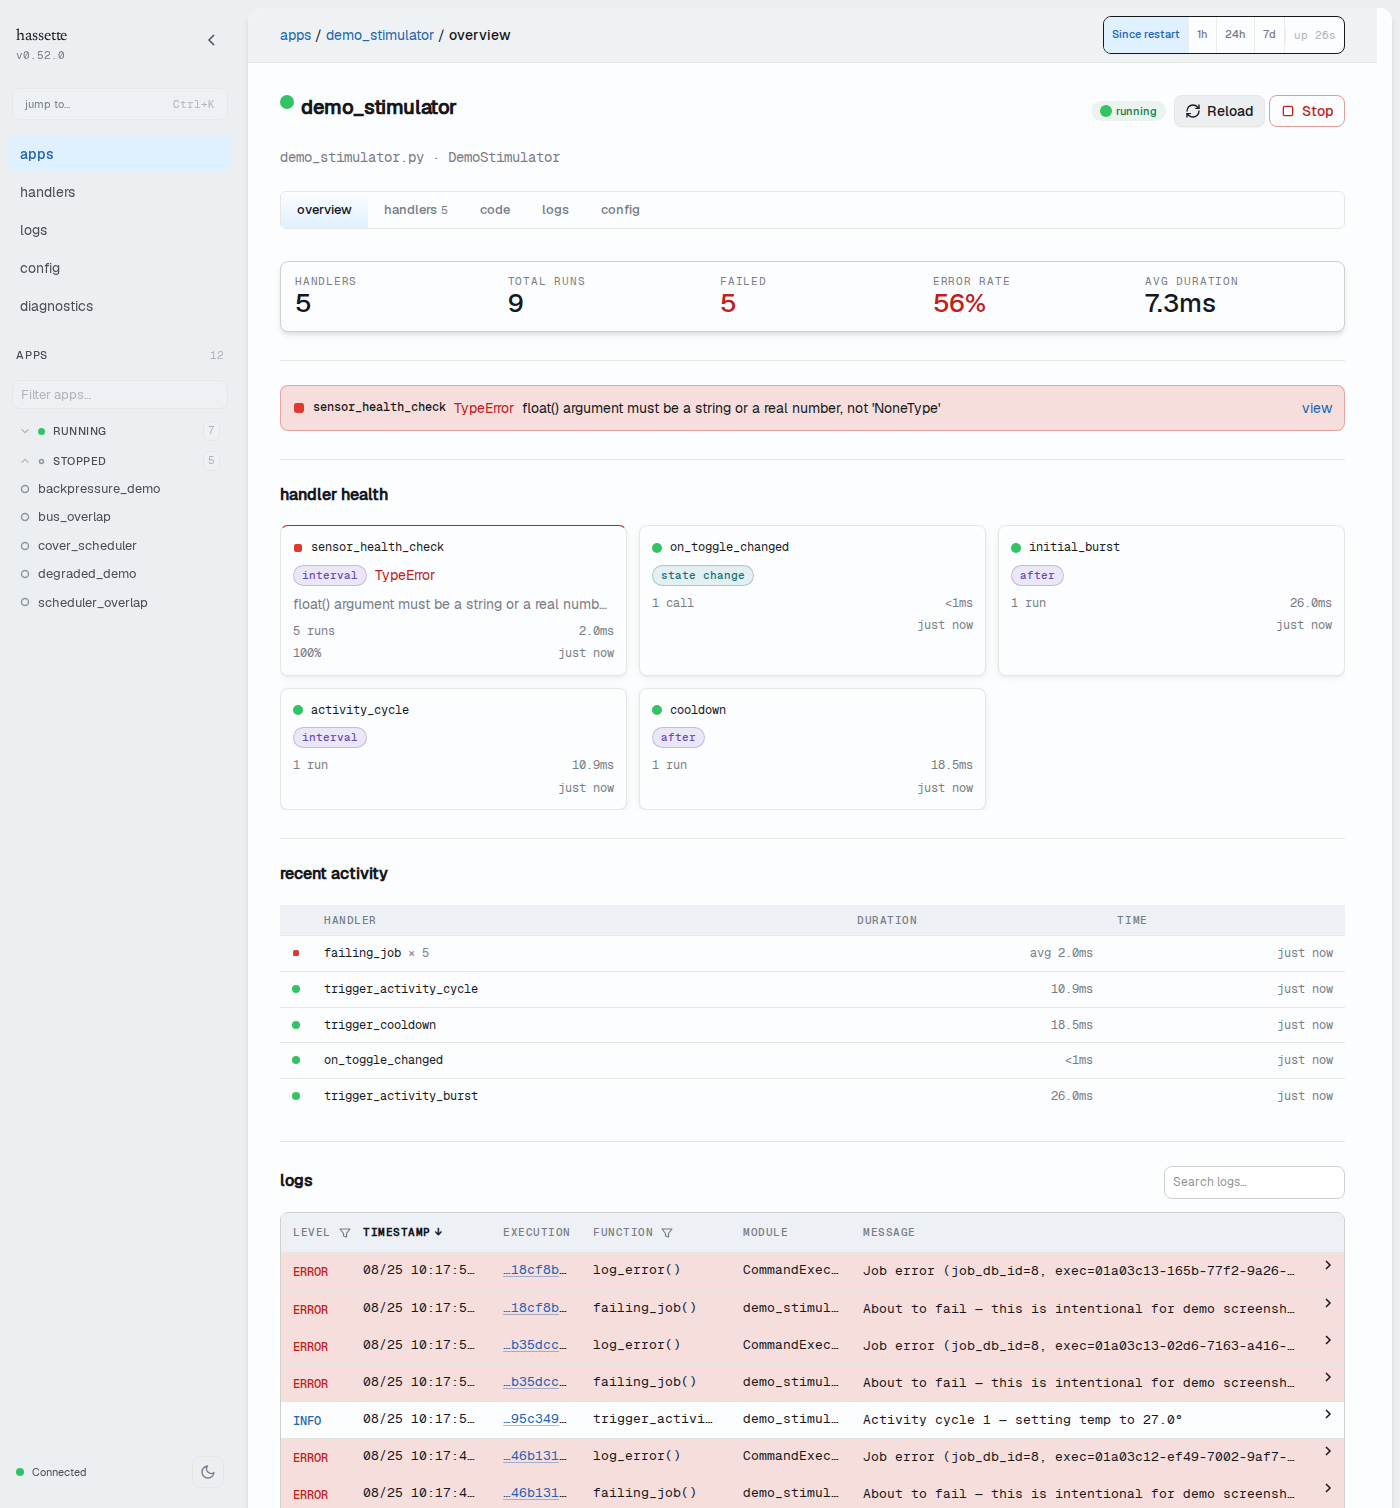
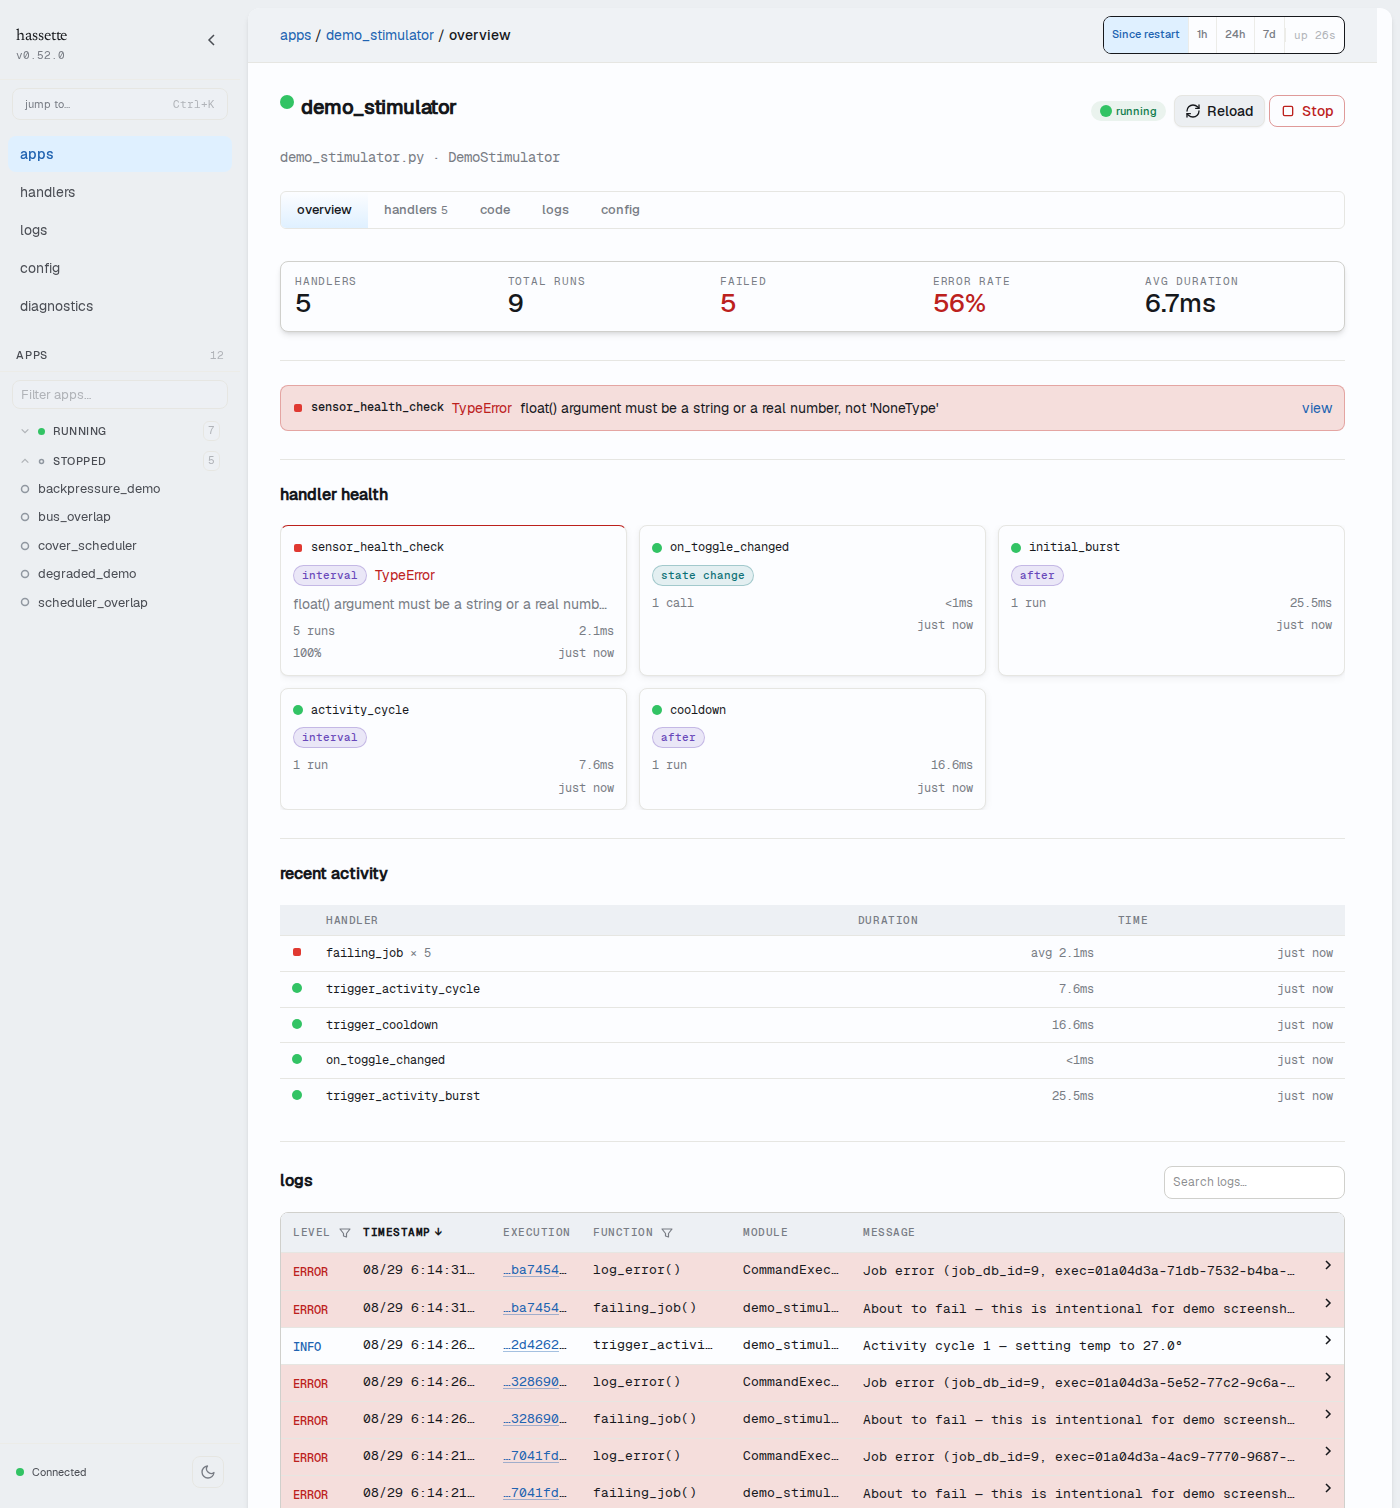
refactor(ui): share SECTION_LABEL_CLASS and use STATUS_DOT_SIZE in app-detail overview (#1734)
## Summary

Three pre-existing nitpicker findings in the app-detail overview
components, surfaced during the ship-gate clean-code review for PR
#1608.

- **Deduplicated `SECTION_LABEL_CLASS`.** The same constant (same name,
same value) was defined independently in `overview-tab.tsx` and
`recent-activity-section.tsx`. It now lives once in
`overview-section.ts` — the module that already owns
`OVERVIEW_SECTION_CLASS` for these siblings — and both files import it.
- **Replaced the magic `size={8}`** on the `<StatusShape>` in
`recent-activity-section.tsx` with the shared `STATUS_DOT_SIZE`
constant, which is documented as the size for table cells and list rows
— exactly this usage.
- **Trimmed `RecentLogsSection()`** from ~52 lines to 37 by extracting
the search field into a `LogSearchInput` component, bringing it under
the 50-line guideline in `coding-style.md`.

## Note on the visual change

`STATUS_DOT_SIZE` is `10`, not `8`, so the recent-activity status dot
renders 2px larger than before. This is the intended outcome of the
acceptance criterion rather than a pixel-for-pixel refactor: the
constants module distinguishes `STATUS_DOT_SIZE` (10, "sized for table
cells and list rows") from `BADGE_STATUS_DOT_SIZE` (8, for inline
badges/pills), and this dot sits in a table cell. The hardcoded `8` was
the inconsistency.

## Screenshots

`docs/_static/web_ui_app_detail_overview.png` documents this exact view,
so it was regenerated via `scripts/capture_screenshots.py --only
[…]

diff --git a/frontend/src/components/app-detail/overview-tab.tsx b/frontend/src/components/app-detail/overview-tab.tsx
@@ -14,7 +14,7 @@ import { ErrorSpotlight } from "./error-spotlight";
 import { HandlerHealthGrid } from "./handler-health-grid";
 import { buildItems } from "./handler-list";
 import { OverviewHealthStrip } from "./health-strip";
-import { OVERVIEW_SECTION_CLASS } from "./overview-section";
+import { OVERVIEW_SECTION_CLASS, SECTION_LABEL_CLASS } from "./overview-section";
 import { isFailing } from "./overview-tab-helpers";
 import { RecentActivitySection } from "./recent-activity-section";
 
@@ -32,7 +32,22 @@ interface Props {
 
 const SEARCH_INPUT_CLASS =
   "min-w-[var(--size-search-min)] rounded-md border border-[var(--border-strong)] bg-input px-2 py-1.5 font-sans text-[length:var(--text-mono-sm)] text-foreground outline-none placeholder:text-foreground-faint focus-visible:border-primary focus-visible:shadow-[0_0_0_2px_var(--primary-soft)] max-mobile:w-full max-mobile:min-w-0";
-const SECTION_LABEL_CLASS = "mb-2 font-sans text-[length:var(--text-h3)] font-semibold text-foreground";
+
+function LogSearchInput({ value, onChange }: { value: string; onChange: (next: string) => void }) {
+  return (
+    <input
+      type="text"
+      className={SEARCH_INPUT_CLASS}
+      placeholder="Search logs…"
+      aria-label="Search app logs"
+      value={value}
+      onInput={(e) => {
+        onChange(e.currentTarget.value);
+      }}
+      data-testid="overview-logs-search"
+    />
+  );
+}
 
 function RecentLogsSection({
   appKey,
@@ -50,20 +65,6 @@ function RecentLogsSection({
     ? "no logs have been recorded for this app."
     : "nothing has been logged recently. change the level filter or extend the time window to see older lines.";
 
-  const searchInput = (
-    <input
-      type="text"
-      className={SEARCH_INPUT_CLASS}
-      placeholder="Search logs…"
-      aria-label="Search app logs"
-      value={search}
-      onInput={(e) => {
-        setSearch((e.target as HTMLInputElement).value);
-      }}
-      data-testid="overview-logs-search"
-    />
-  );
-
   const footer = (
     <TableFooter
       count={log.countLabel}
@@ -76,7 +77,7 @@ function RecentLogsSection({
     <section className={OVERVIEW_SECTION_CLASS} data-testid="overview-logs-section">
       <div className="flex items-baseline justify-between gap-4">
         <h3 className={SECTION_LABEL_CLASS}>logs</h3>
-        {searchInput}
+        <LogSearchInput value={search} onChange={setSearch} />
       </div>
       <TableCard footer={footer} scrollHeight="400px">
         <LogTableWithDrawer drawerProps={log.drawerProps}>

diff --git a/frontend/src/components/app-detail/recent-activity-section.tsx b/frontend/src/components/app-detail/recent-activity-section.tsx
@@ -10,14 +10,14 @@ import { isExecutionDefined, useAppExecution } from "../../hooks/use-scoped-exec
 import { useScopedQuery } from "../../hooks/use-scoped-query";
 import { queryKeys } from "../../lib/query-keys";
 import { useAppStore } from "../../state/store";
+import { STATUS_DOT_SIZE } from "../../utils/constants";
 import { formatDurationOrDash, formatRelativeTime, lastDotSegment } from "../../utils/format";
 import { executionStatusKind } from "../../utils/status";
 import { StatusShape } from "../shared/status-shape";
-import { OVERVIEW_SECTION_CLASS } from "./overview-section";
+import { OVERVIEW_SECTION_CLASS, SECTION_LABEL_CLASS } from "./overview-section";
 
 const ACTIVITY_FETCH_LIMIT = 20;
 const ACTIVITY_ROW_LIMIT = 8;
-const SECTION_LABEL_CLASS = "mb-2 font-sans text-[length:var(--text-h3)] font-semibold text-foreground";
 const DATA_TABLE_CLASS =
   "w-full border-collapse bg-card [&_thead_tr]:bg-muted [&_th]:border-b [&_th]:border-border [&_th]:px-3 [&_th]:py-2 [&_th]:text-left [&_th]:font-mono [&_th]:text-xs [&_th]:font-medium [&_th]:uppercase [&_th]:tracking-[var(--text-label-tracking)] [&_th]:text-muted-foreground [&_th]:whitespace-nowrap [&_td]:border-b [&_td]:border-border [&_td]:px-3 [&_td]:py-2 [&_td]:align-top [&_td]:text-[length:var(--text-small)] [&_tbody_tr:last-child_td]:border-b-0 [&_tbody_tr:hover]:bg-muted";
 
@@ -100,7 +100,7 @@ function ActivityGroupRow({ group }: { group: ActivityGroup }) {
     <tr data-testid="overview-activity-row">
       <td aria-label={`latest status: ${group.latestStatus}`}>
         <span className="inline-flex items-center gap-1 whitespace-nowrap font-mono text-[length:var(--text-mono-sm)] leading-none">
-          <StatusShape kind={kind} size={8} />
+          <StatusShape kind={kind} size={STATUS_DOT_SIZE} />
         </span>
       </td>
       <td className="text-foreground" title={group.handlerName}>

diff --git a/frontend/src/components/app-detail/config-tab.tsx b/frontend/src/components/app-detail/config-tab.tsx
@@ -10,6 +10,7 @@ import { getShikiHighlighter, SHIKI_THEMES } from "../../utils/shiki";
 import { ConfigSchemaView, ExpandableValue } from "../shared/config-schema-view";
 import { EmptyState } from "../shared/empty-state";
 import { Spinner } from "../shared/spinner";
+import { SECTION_LABEL_CLASS } from "./overview-section";
 
 interface Props {
   appKey: string;
@@ -17,7 +18,6 @@ interface Props {
 
 const DATA_TABLE_CLASS =
   "w-full border-collapse bg-card [&_thead_tr]:bg-muted [&_th]:border-b [&_th]:border-border [&_th]:px-3 [&_th]:py-2 [&_th]:text-left [&_th]:font-mono [&_th]:text-xs [&_th]:font-medium [&_th]:uppercase [&_th]:tracking-[var(--text-label-tracking)] [&_th]:text-muted-foreground [&_th]:whitespace-nowrap [&_td]:border-b [&_td]:border-border [&_td]:px-3 [&_td]:py-2 [&_td]:align-top [&_td]:text-[length:var(--text-small)] [&_tbody_tr:last-child_td]:border-b-0 [&_tbody_tr:hover]:bg-muted";
-const SECTION_LABEL_CLASS = "mb-2 font-sans text-[length:var(--text-h3)] font-semibold text-foreground";
 
 /** True when the value is a plain (non-array) object usable as a ConfigRecord. */
 function isConfigRecord(value: unknown): value is ConfigRecord {

diff --git a/frontend/src/components/app-detail/handler-health-grid.tsx b/frontend/src/components/app-detail/handler-health-grid.tsx
@@ -4,11 +4,9 @@ import { useMemo } from "react";
 import { useRovingTabIndex } from "../../hooks/use-roving-tab-index";
 import { EmptyState } from "../shared/empty-state";
 import { HandlerHealthCard } from "./handler-health-card";
-import { OVERVIEW_SECTION_CLASS } from "./overview-section";
+import { OVERVIEW_SECTION_CLASS, SECTION_LABEL_CLASS } from "./overview-section";
 import { sortedByFailingFirst } from "./overview-tab-helpers";
 import type { UnifiedItem } from "./unified-handler-row";
-
-const SECTION_LABEL_CLASS = "mb-2 font-sans text-[length:var(--text-h3)] font-semibold text-foreground";
 
 export function HandlerHealthGrid({
   items,

diff --git a/frontend/src/components/app-detail/overview-section.ts b/frontend/src/components/app-detail/overview-section.ts
@@ -1,2 +1,4 @@
 export const OVERVIEW_SECTION_CLASS =
   "flex flex-col gap-3 border-t border-border pt-6 [&:first-child]:border-t-0 [&:first-child]:pt-0";
+
+export const SECTION_LABEL_CLASS = "mb-2 font-sans text-[length:var(--text-h3)] font-semibold text-foreground";
